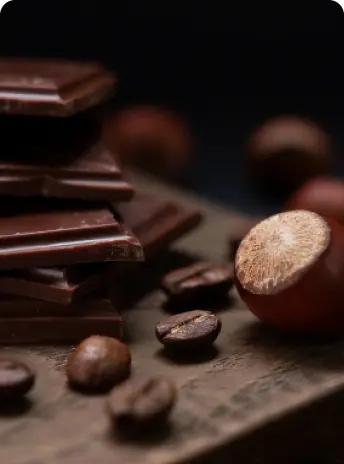
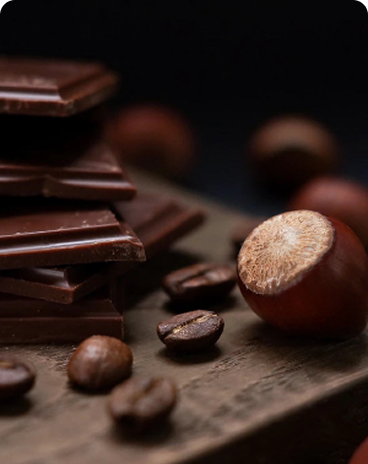
bestsellers section done

diff --git a/src/partials/bestsellers.html b/src/partials/bestsellers.html
@@ -1,0 +1,94 @@
+<section id="bestsellers" class="bestsellers-section container">
+  <h2 class="section-title">
+    <span class="section-title-span">Top</span> sellers
+  </h2>
+  <ul class="bestsellers-list">
+    <li class="bestsellers-item">
+      <div class="bestsellers-content-wrapper">
+        <div class="bestsellers-descr-wrapper">
+          <p class="bestsellers-descr-text">
+            Chocolate with nuts is an incredible combination of two taste
+            pleasures. When delicate and silky chocolate meets crunchy and tasty
+            nuts, a real culinary pleasure arises.
+          </p>
+        </div>
+        <picture class="bestsellers-img">
+          <source
+            src="./img/bestsellers/choc-w-nuts-3x.webp"
+            media="(min-resolution: 288dpi)"
+          />
+          <source
+            src="./img/bestsellers/choc-w-nuts-2x.webp"
+            media="(min-resolution: 192dpi)"
+          />
+          <img
+            src="./img/bestsellers/choc-w-nuts.webp"
+            alt="Chocolate with nuts"
+          />
+        </picture>
+      </div>
+      <div class="bestsellers-title-wrapper">
+        <h3 class="bestsellers-title">Chocolate with nuts</h3>
+      </div>
+    </li>
+    <li class="bestsellers-item">
+      <div class="bestsellers-content-wrapper">
+        <div class="bestsellers-descr-wrapper">
+          <p class="bestsellers-descr-text">
+            Chocolate with fruit is an unbeatable combination of two of the
+            tastiest things in the world. This dessert combines delicate and
+            aromatic chocolate with fresh and juicy fruits, creating a true
+            poetry of taste.
+          </p>
+        </div>
+        <picture>
+          <source
+            src="./img/bestsellers/choc-w-fruits-3x.webp"
+            media="(min-resolution: 288dpi)"
+          />
+          <source
+            src="./img/bestsellers/choc-w-fruits-2x.webp"
+            media="(min-resolution: 192dpi)"
+          />
+          <img
+            src="./img/bestsellers/choc-w-fruits.webp"
+            alt="Chocolate with fruits"
+          />
+        </picture>
+      </div>
+      <div class="bestsellers-title-wrapper">
+        <h3 class="bestsellers-title">Chocolate with fruits</h3>
+      </div>
+    </li>
+    <li class="bestsellers-item">
+      <div class="bestsellers-content-wrapper">
+        <div class="bestsellers-descr-wrapper">
+          <p class="bestsellers-descr-text">
+            Dark chocolate is a rich and indulgent treat that is beloved by many
+            chocolate enthusiasts. It is made from cocoa beans, which are
+            roasted, ground, and then processed to produce chocolate liquor.
+            Dark chocolate contains a higher percentage of cocoa solids compared
+            to milk chocolate.
+          </p>
+        </div>
+        <picture>
+          <source
+            src="./img/bestsellers/dark-choc-3x.webp"
+            media="(min-resolution: 288dpi)"
+          />
+          <source
+            src="./img/bestsellers/dark-choc-2x.webp"
+            media="(min-resolution: 192dpi)"
+          />
+          <img
+            src="./img/bestsellers/dark-choc.webp"
+            alt="Chocolate with nuts"
+          />
+        </picture>
+      </div>
+      <div class="bestsellers-title-wrapper">
+        <h3 class="bestsellers-title">Dark chocolate</h3>
+      </div>
+    </li>
+  </ul>
+</section>

diff --git a/src/css/bestsellers.css b/src/css/bestsellers.css
@@ -1,0 +1,123 @@
+.bestsellers-section {
+  display: flex;
+  flex-direction: column;
+  gap: 27px;
+  align-items: center;
+  justify-content: center;
+}
+
+.bestsellers-item {
+  display: flex;
+  flex-direction: column;
+  align-items: center;
+  justify-content: center;
+  width: 335px;
+  background-color: #ffffff;
+  border: 1px solid rgba(17, 17, 17, 0.1);
+  border-radius: 15px;
+  overflow: hidden;
+}
+
+.bestsellers-title-wrapper {
+  display: flex;
+  align-items: center;
+  justify-content: center;
+  width: 335px;
+  height: 72px;
+  overflow: hidden;
+}
+
+.bestsellers-title {
+  font-size: 18px;
+  font-weight: 600;
+  text-transform: uppercase;
+  overflow: hidden;
+  z-index: 2;
+}
+
+.bestsellers-content-wrapper {
+  position: relative;
+  height: 464px;
+  width: 335px;
+}
+
+.bestsellers-img {
+  display: block;
+  width: 100%;
+  height: 100%;
+}
+
+.bestsellers-img img {
+  width: 100%;
+  height: 100%;
+  object-fit: cover;
+}
+
+.bestsellers-descr-wrapper {
+  border-top-left-radius: 15px;
+  border-top-right-radius: 15px;
+  backdrop-filter: blur(10px);
+  padding-left: 20px;
+  padding-right: 20px;
+
+  display: flex;
+  align-items: center;
+  justify-content: center;
+
+  position: absolute;
+  top: 0;
+  left: 0;
+  right: 0;
+  bottom: 0;
+  opacity: 0;
+  visibility: hidden;
+  transition: opacity 0.5s ease, visibility 0.5s ease;
+}
+
+.bestsellers-item:hover .bestsellers-descr-wrapper {
+  opacity: 1;
+  visibility: visible;
+}
+
+.bestsellers-descr-text {
+  font-size: 14px;
+  font-weight: 400;
+  color: #ffffff;
+}
+
+.bestsellers-item {
+  display: none;
+}
+
+.bestsellers-item:nth-child(-n + 1) {
+  display: flex;
+}
+
+/*<----------768px--------->*/
+
+@media screen and (min-width: 768px) {
+  .bestsellers-section {
+    gap: 50px;
+  }
+
+  .bestsellers-list {
+    display: flex;
+    flex-direction: row;
+    flex-wrap: wrap;
+    align-items: center;
+    justify-content: center;
+    gap: 24px;
+  }
+
+  .bestsellers-item:nth-child(-n + 2) {
+    display: flex;
+  }
+}
+
+/*<----------1200px--------->*/
+
+@media screen and (min-width: 1200px) {
+  .bestsellers-item:nth-child(-n + 3) {
+    display: flex;
+  }
+}

diff --git a/src/index.html b/src/index.html
@@ -25,6 +25,7 @@
       <load src="./partials/benefits.html" />
       <load src="./partials/ingredients.html" />
       <load src="./partials/products.html" />
+      <load src="./partials/bestsellers.html" />
       <load src="./partials/reviews.html" />
     </main>
 

diff --git a/src/css/styles.css b/src/css/styles.css
@@ -7,6 +7,7 @@
 @import url('./benefits.css');
 @import url('./ingredients.css');
 @import url('./products.css');
+@import url('./bestsellers.css');
 @import url('./reviews.css');
 @import url('./footer.css');
 
